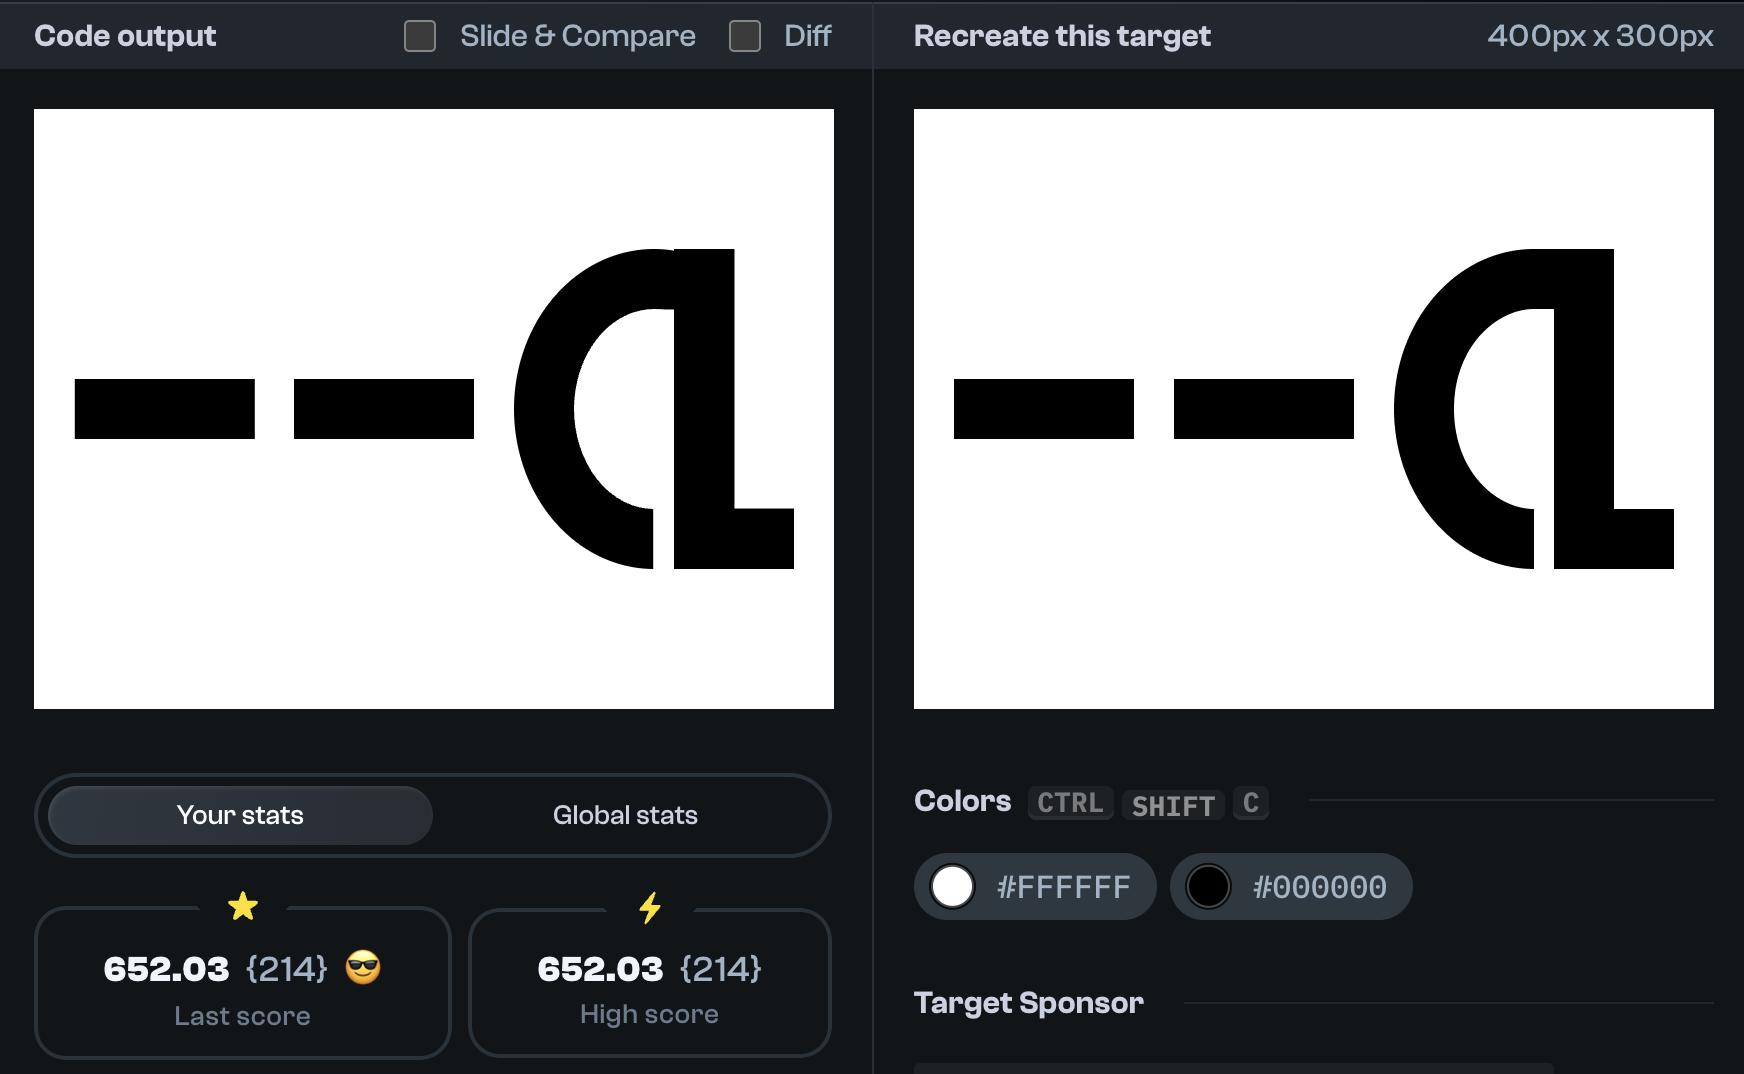
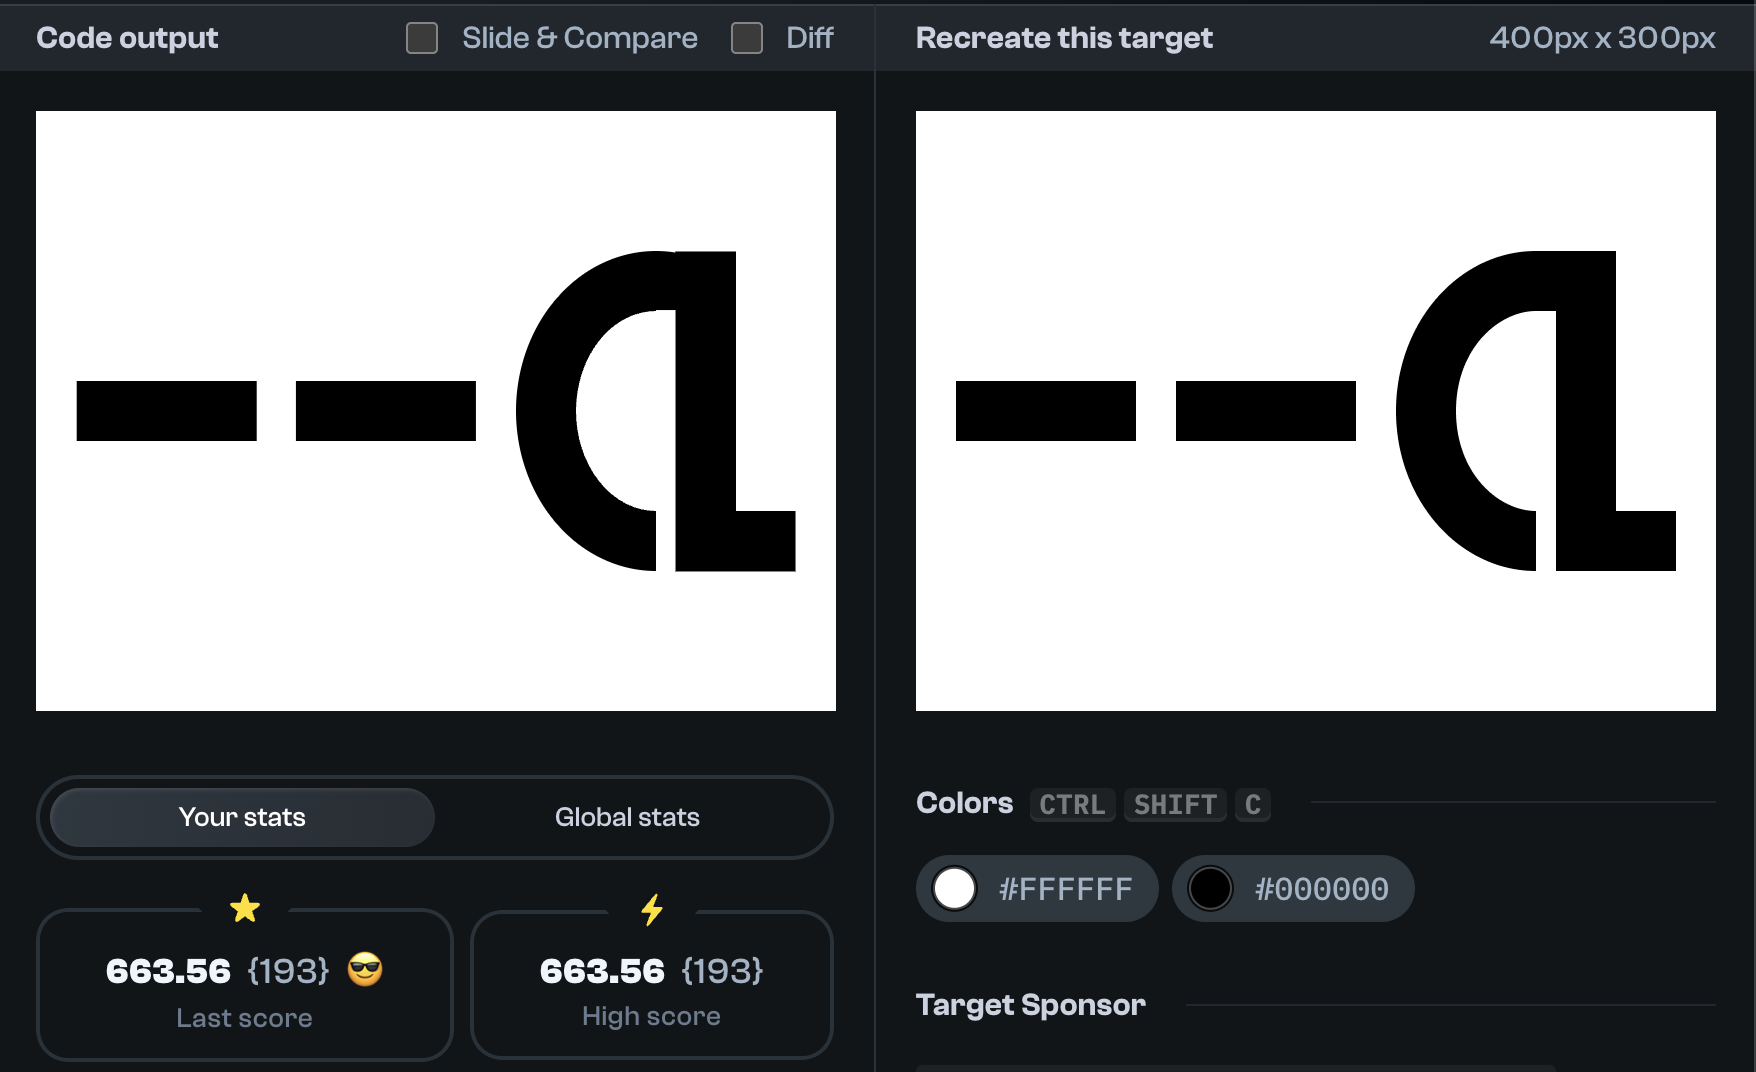
feat: CSS Battle solution for 2026-09-28

diff --git a/daily-targets/2026-09-28/solutions.html b/daily-targets/2026-09-28/solutions.html
@@ -1,3 +1,3 @@
 <!-- Version 1 -->
-<p><style>&{margin:135 180 135 130;box-shadow:inset 1in 0,-116q 0;>*{margin:-65-160-65 110;border:32q solid;border-radius:50%}p{margin:-30-30-30 50;height:160;box-shadow:inset 32q -32q,inset -32q 0#fff,-11q 32q#fff
+<p><style>&{margin:70 20 70 240;border:32q solid;border-radius:50%;*{margin:-60-60 0 80;box-shadow:-32q 32q,-5ch 63q#fff,inset 1in 0#fff;p{margin:0-15;height:30;box-shadow:-217q 95px,-333q 95px
 </style>
